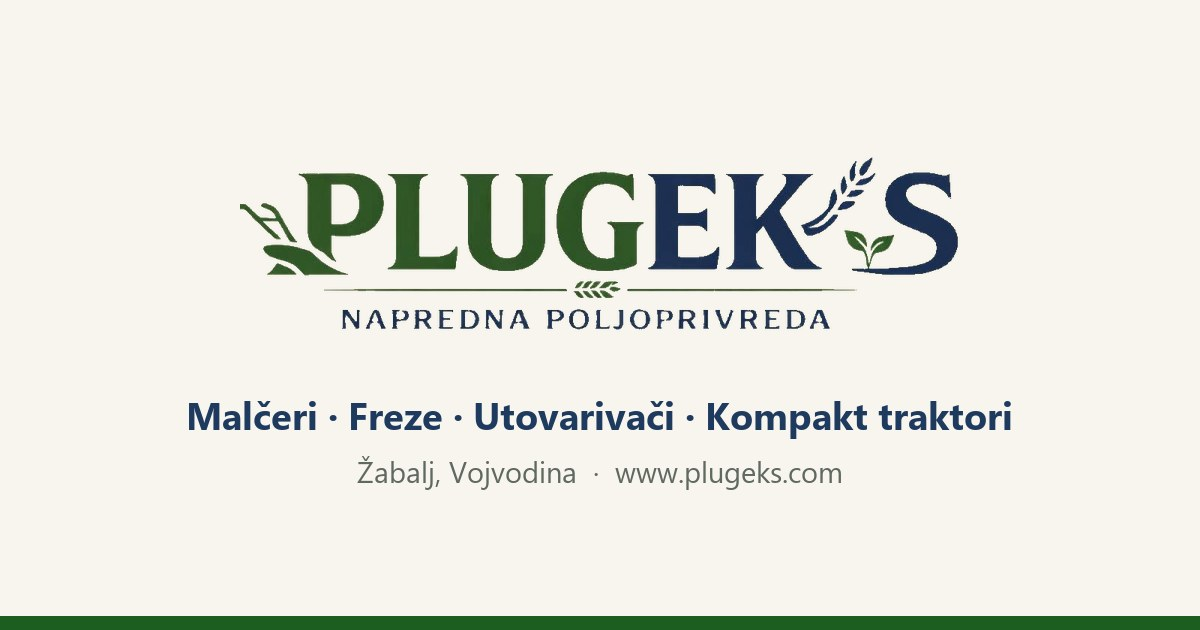
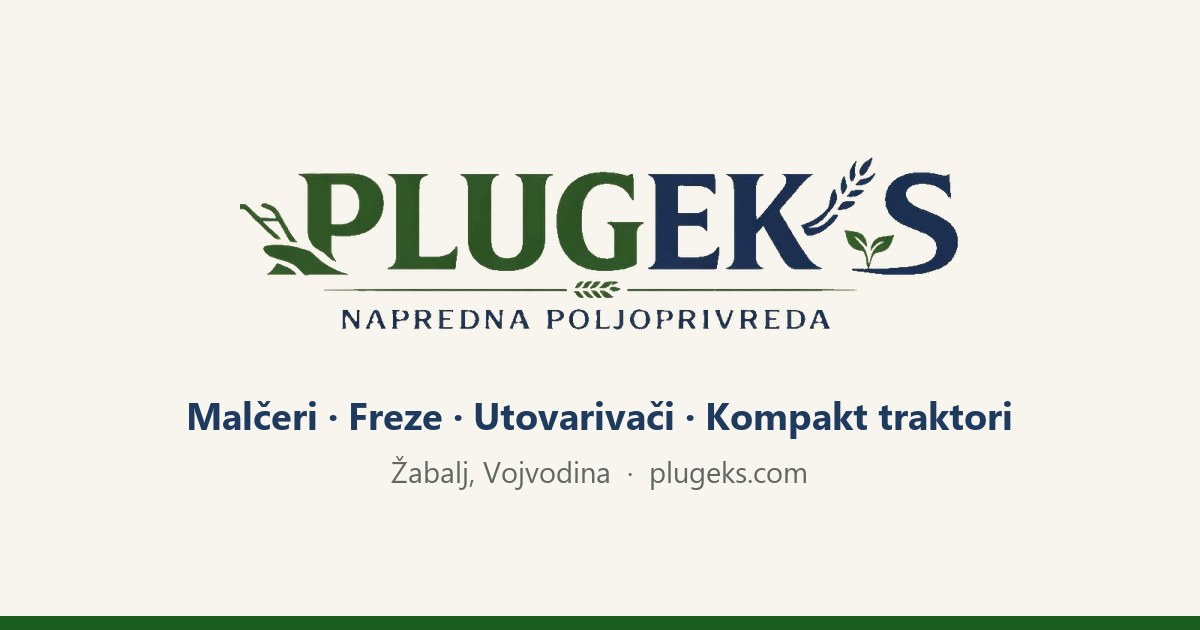
fix: prebaci kanonski domen na plugeks.com bez www
Search Console property je vec verifikovan za https://plugeks.com/, pa je
jednostavnije da sajt zivi na apexu nego da se pravi novi property. www sad
preusmerava na plugeks.com (podeseno na Vercel-u).

Regenerisana og.jpg jer je imala odstampan stari domen.

Changed region(s): [[0.2775, 0.7238, 0.7092, 0.7841]]

diff --git a/src/app/image-sitemap.xml/route.ts b/src/app/image-sitemap.xml/route.ts
@@ -11,7 +11,7 @@ import { getProductsWithPhotos, productHref, type Product } from "@/lib/products
  * licenciranim fotografijama pre puštanja u Google Search Console.
  */
 
-const BASE = "https://www.plugeks.com";
+const BASE = "https://plugeks.com";
 
 const escapeXml = (s: string) =>
   s.replace(/[<>&'"]/g, (c) =>

diff --git a/src/lib/site.ts b/src/lib/site.ts
@@ -37,7 +37,7 @@ export const site = {
   socials: {
     facebook: "https://www.facebook.com/p/PlugekS-100077726130337/",
     instagram: "https://www.instagram.com/plugeks/",
-    website: "https://www.plugeks.com",
+    website: "https://plugeks.com",
   },
 
   // Brzi linkovi za komunikaciju

diff --git a/src/app/proizvod/[slug]/page.tsx b/src/app/proizvod/[slug]/page.tsx
@@ -28,7 +28,7 @@ import {
   type Product,
 } from "@/lib/products";
 
-const SITE_URL = "https://www.plugeks.com";
+const SITE_URL = "https://plugeks.com";
 
 /* Sve stranice su statičke; nepoznat slug → 404 (nema tankih dinamičkih URL-ova). */
 export const dynamicParams = false;

diff --git a/src/app/sitemap.ts b/src/app/sitemap.ts
@@ -1,7 +1,7 @@
 import type { MetadataRoute } from "next";
 import { getAllProducts, productHref } from "@/lib/products";
 
-const BASE = "https://www.plugeks.com";
+const BASE = "https://plugeks.com";
 
 /**
  * Sitemap svih stranica (početna, kategorije + svaki proizvod).

diff --git a/src/app/layout.tsx b/src/app/layout.tsx
@@ -22,7 +22,7 @@ const sans = Manrope({
   weight: ["400", "500", "600", "700", "800"],
 });
 
-const SITE_URL = "https://www.plugeks.com";
+const SITE_URL = "https://plugeks.com";
 
 export const metadata: Metadata = {
   metadataBase: new URL(SITE_URL),

diff --git a/src/app/robots.ts b/src/app/robots.ts
@@ -1,6 +1,6 @@
 import type { MetadataRoute } from "next";
 
-const BASE = "https://www.plugeks.com";
+const BASE = "https://plugeks.com";
 
 export default function robots(): MetadataRoute.Robots {
   return {

diff --git a/README.md b/README.md
@@ -228,7 +228,7 @@ await fetch("/api/upit", {
 - `sitemap.xml` i `robots.txt` (automatski generisani)
 - Optimizovano za mobilne i brzinu (Core Web Vitals)
 
-Pre objave: u `src/app/layout.tsx` i `sitemap.ts`/`robots.ts` proveri da je domen `https://www.plugeks.com` tačan.
+Pre objave: u `src/app/layout.tsx` i `sitemap.ts`/`robots.ts` proveri da je domen `https://plugeks.com` tačan.
 
 ---
 
